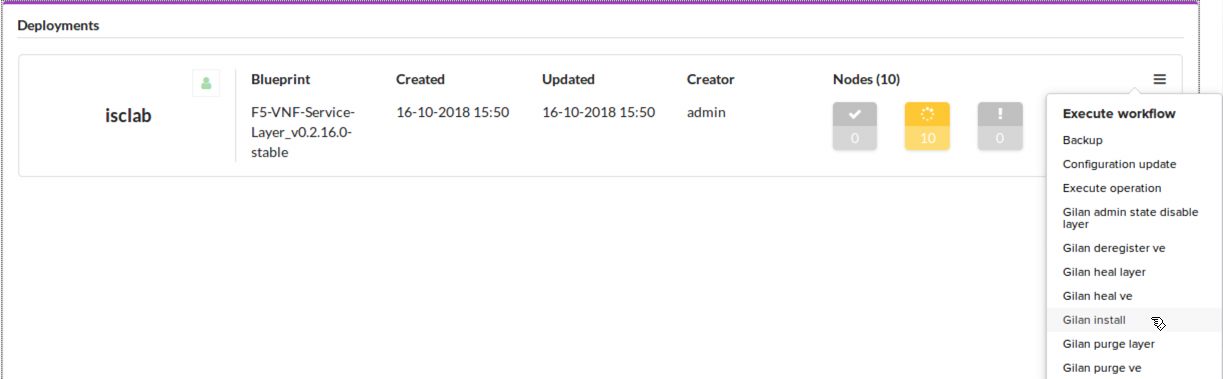
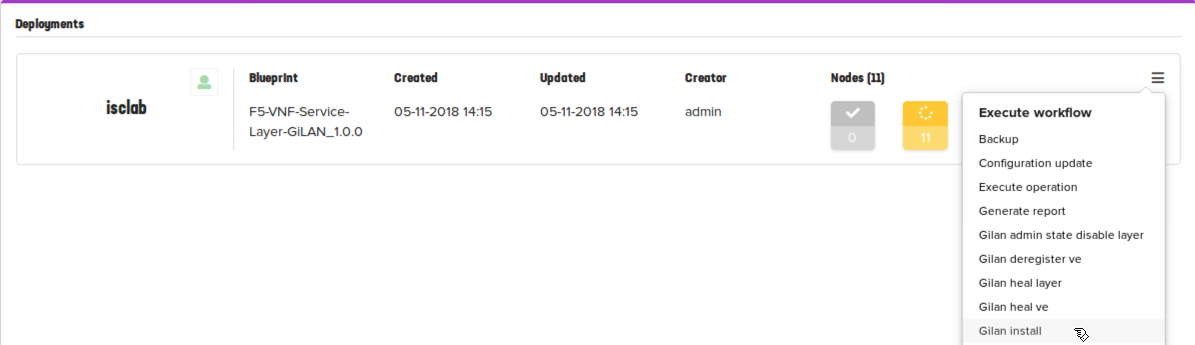
1

diff --git a/docs/deploy_gilan.rst b/docs/deploy_gilan.rst
@@ -14,7 +14,7 @@ Step 1. Deploy Gilan blueprint
 Once you change all the values in the Gi LAN inputs file and save it locally, upload the file in F5 VNF Manager. It will
 define all required parameters for the F5 Gilan yaml blueprint.
 
-1.	Open F5 VNFM, click :guilabel:`Local Blueprints`. The :guilabel:`F5-VNF-Service-Layer_v0.2.24.2-devel` main blueprint file appears.
+1.	Open F5 VNFM, click :guilabel:`Local Blueprints`. The :guilabel:`F5-VNF-Service-Layer-GiLAN_1.0.0` main blueprint file appears.
 
 2.  Click :guilabel:`Deploy`.
 
